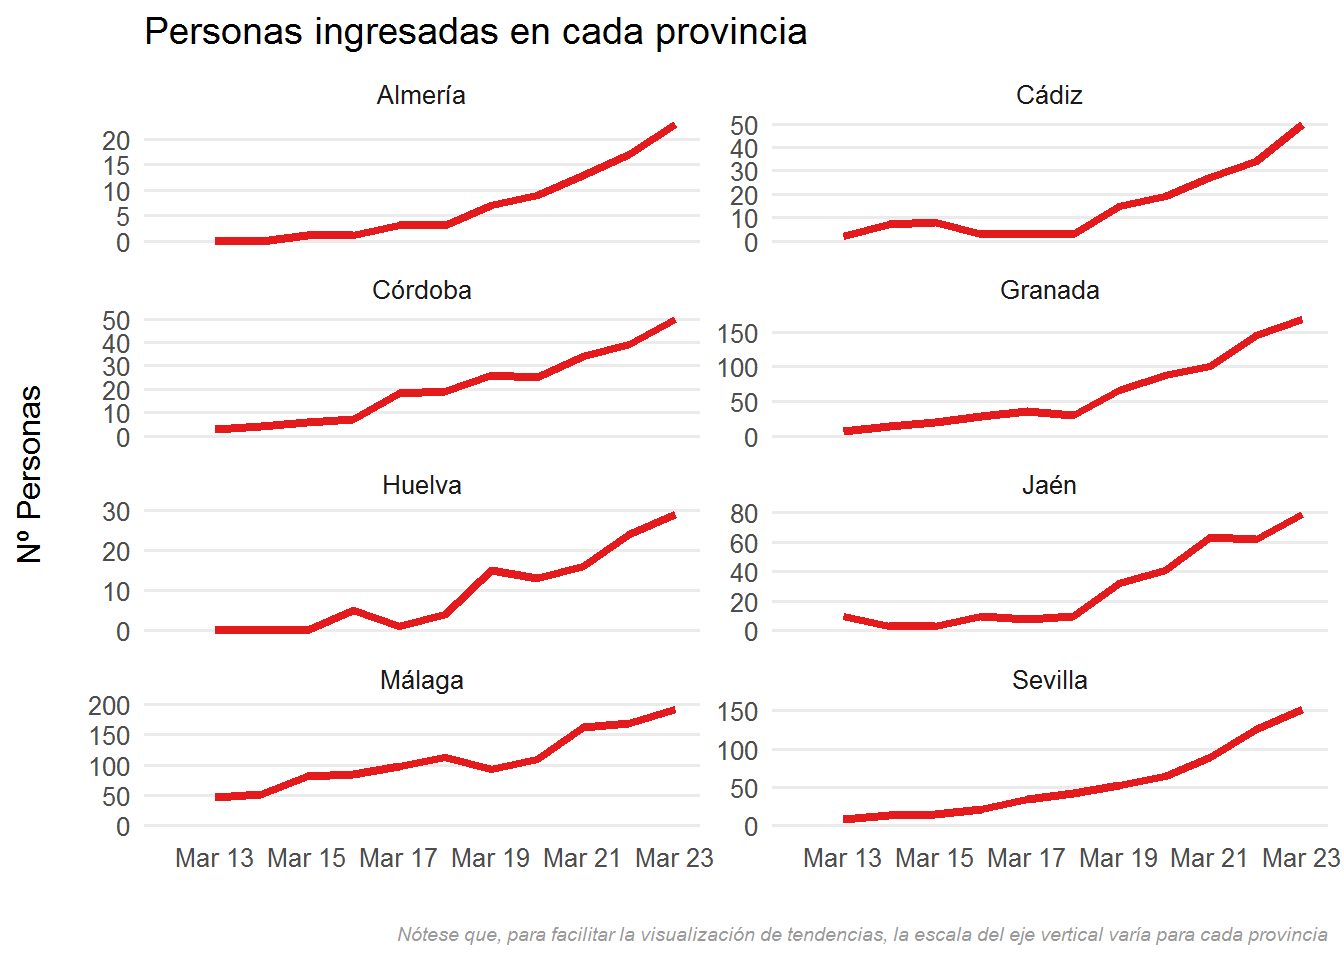
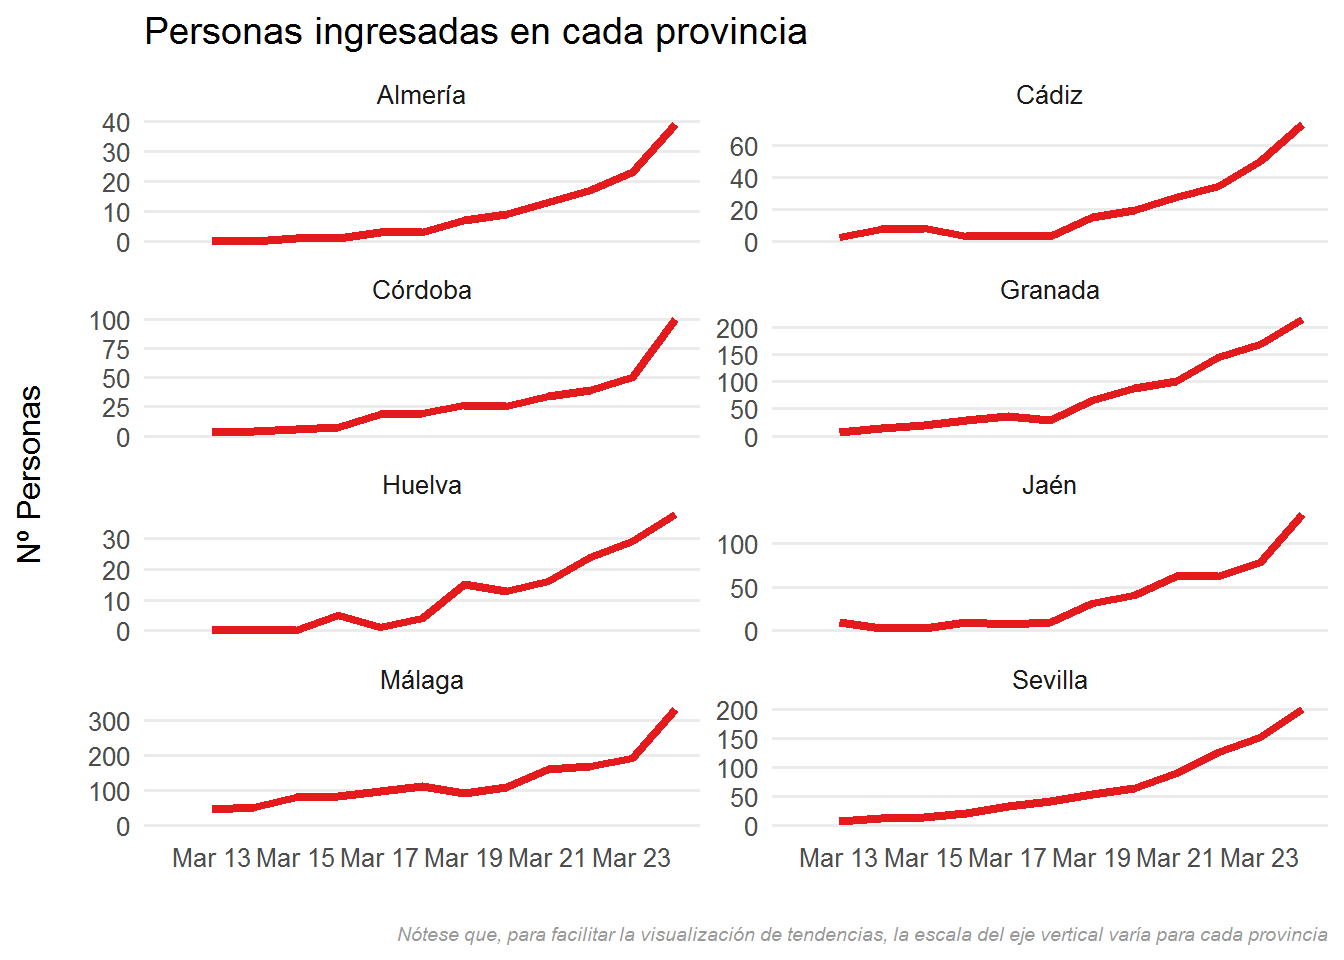
update 24 Marzo

diff --git a/evolucion-coronavirus-andalucia.html b/evolucion-coronavirus-andalucia.html
@@ -194,7 +194,7 @@ summary {
 <p><br></p>
 <p>Aquí se visualiza la evolución de la enfermedad del coronavirus (COVID-19) en Andalucía, según los <a href="https://www.juntadeandalucia.es/organismos/saludyfamilias/areas/salud-vida/paginas/Nuevo_Coronavirus.html">datos oficiales ofrecidos por la Consejería de Salud y Familias</a>. A diferencia de otras visualizaciones más extendidas, que representan datos acumulados en el tiempo, aquí se enfatizan las <strong>variaciones diarias absolutas (no acumuladas)</strong> en número de casos detectados, personas ingresadas y fallecimientos.</p>
 <p>Los datos se actualizan diariamente. Tanto los datos como el código empleado para generar estas visualizaciones está disponible <a href="https://github.com/Pakillo/COVID19-Andalucia">aquí</a>.</p>
-<p>Última actualización: 2020-03-23</p>
+<p>Última actualización: 2020-03-24</p>
 <ul>
 <li><a href="#casos-detectados">Casos detectados</a></li>
 <li><a href="#personas-ingresadas-en-centros-sanitarios">Personas ingresadas en centros sanitarios</a></li>
@@ -204,7 +204,7 @@ summary {
 <div id="casos-detectados" class="section level2">
 <h2>Casos detectados</h2>
 <p><br></p>
-<p>Debe tenerse en cuenta que el número de casos detectados depende en gran medida del número de tests realizados. Por tanto, un aumento o disminución en el número de casos detectados cada día puede deberse a haber realizado más o menos tests, no a variaciones en la incidencia de la enfermedad.</p>
+<p>Debe tenerse en cuenta que el número de casos detectados depende en gran medida del número de test realizados. Por tanto, un aumento o disminución en el número de casos detectados cada día puede deberse a haber realizado más o menos tests, no a variaciones en la incidencia de la enfermedad.</p>
 <p><br></p>
 <p><img src="evolucion-coronavirus-andalucia_files/figure-html/casos_Andalucía-1.png" width="100%" /></p>
 <p><br> <br></p>
